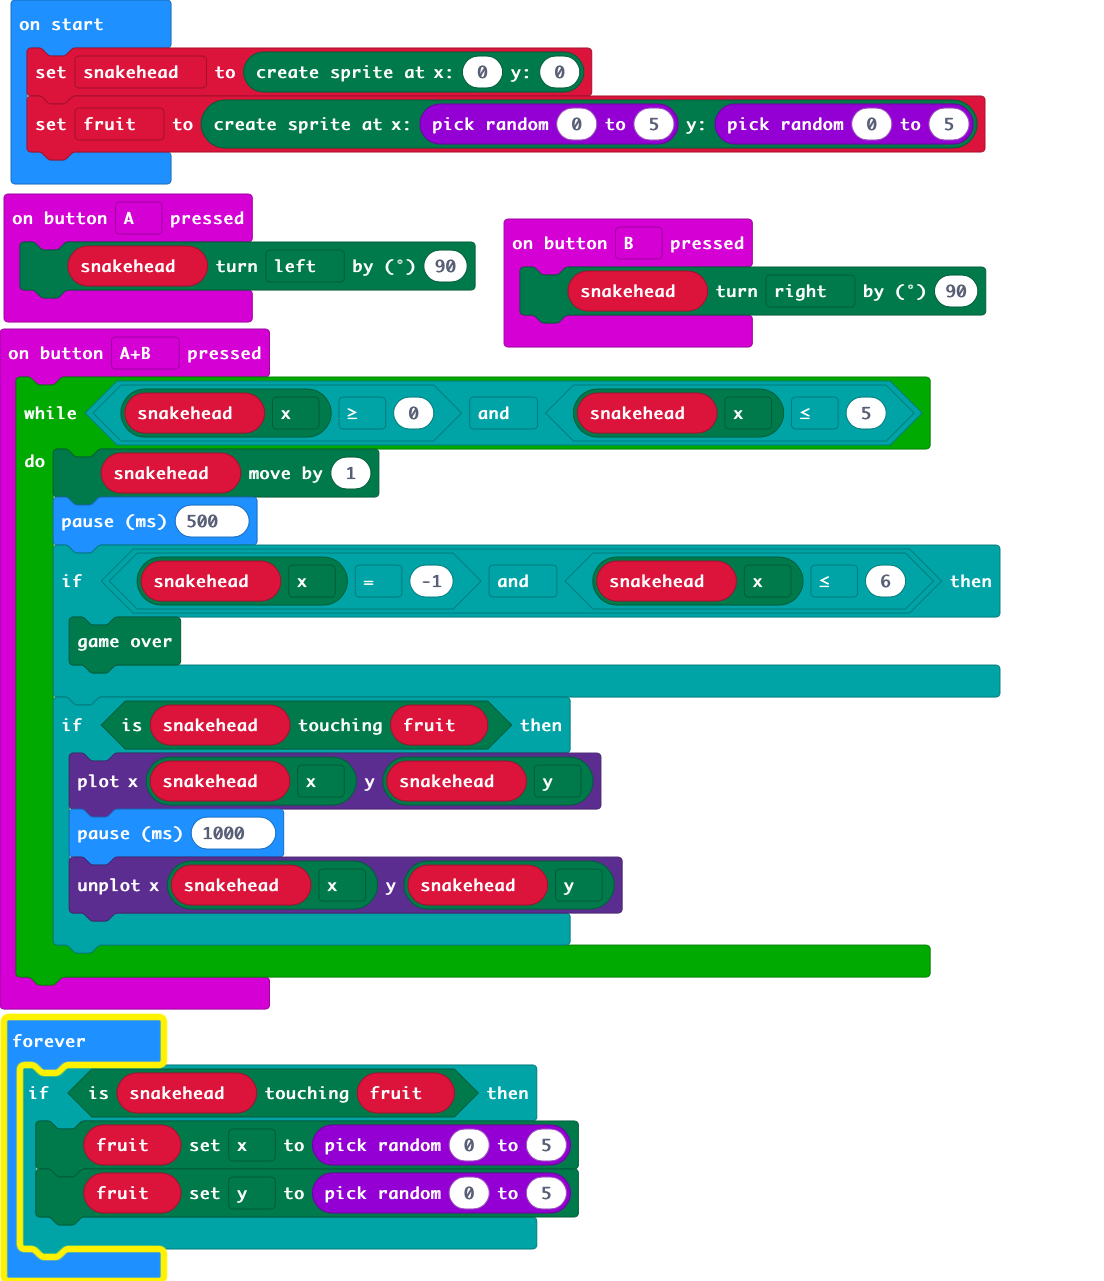
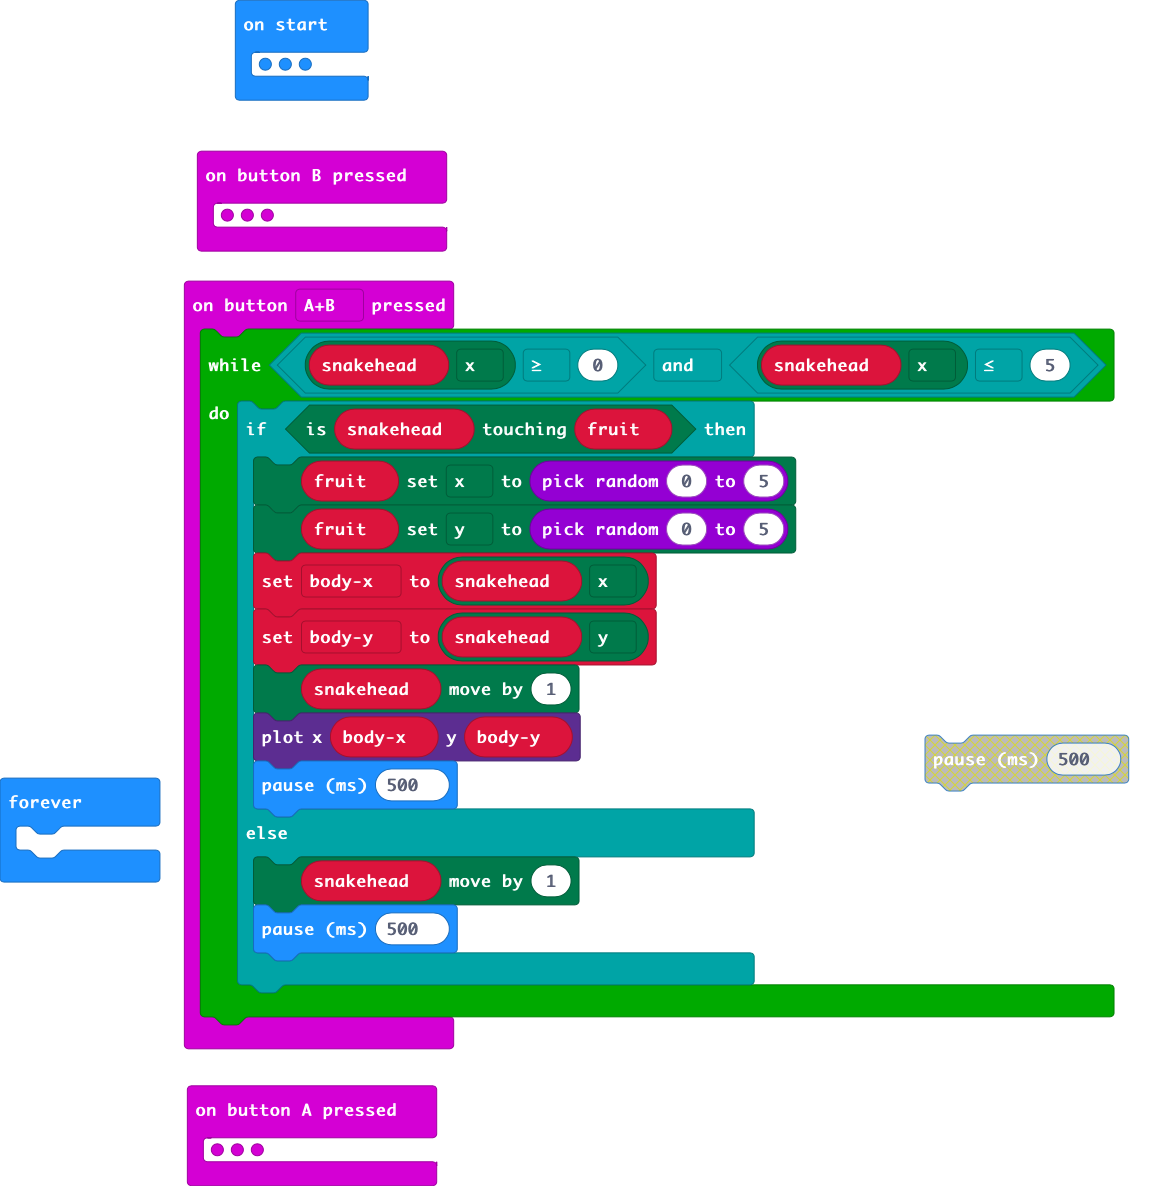
Update main.blocks, main.ts

diff --git a/main.ts b/main.ts
@@ -3,28 +3,29 @@ input.onButtonPressed(Button.A, function () {
 })
 input.onButtonPressed(Button.AB, function () {
     while (snakehead.get(LedSpriteProperty.X) >= 0 && snakehead.get(LedSpriteProperty.X) <= 5) {
-        snakehead.move(1)
-        basic.pause(500)
-        if (snakehead.get(LedSpriteProperty.X) == -1 && snakehead.get(LedSpriteProperty.X) <= 6) {
-            game.gameOver()
-        }
         if (snakehead.isTouching(fruit)) {
-            led.plot(snakehead.get(LedSpriteProperty.X), snakehead.get(LedSpriteProperty.Y))
-            basic.pause(1000)
-            led.unplot(snakehead.get(LedSpriteProperty.X), snakehead.get(LedSpriteProperty.Y))
+            fruit.set(LedSpriteProperty.X, randint(0, 5))
+            fruit.set(LedSpriteProperty.Y, randint(0, 5))
+            bodyx = snakehead.get(LedSpriteProperty.X)
+            bodyy = snakehead.get(LedSpriteProperty.Y)
+            snakehead.move(1)
+            led.plot(bodyx, bodyy)
+            basic.pause(500)
+        } else {
+            snakehead.move(1)
+            basic.pause(500)
         }
     }
 })
 input.onButtonPressed(Button.B, function () {
     snakehead.turn(Direction.Right, 90)
 })
+let bodyy = 0
+let bodyx = 0
 let fruit: game.LedSprite = null
 let snakehead: game.LedSprite = null
 snakehead = game.createSprite(0, 0)
 fruit = game.createSprite(randint(0, 5), randint(0, 5))
 basic.forever(function () {
-    if (snakehead.isTouching(fruit)) {
-        fruit.set(LedSpriteProperty.X, randint(0, 5))
-        fruit.set(LedSpriteProperty.Y, randint(0, 5))
-    }
+	
 })
